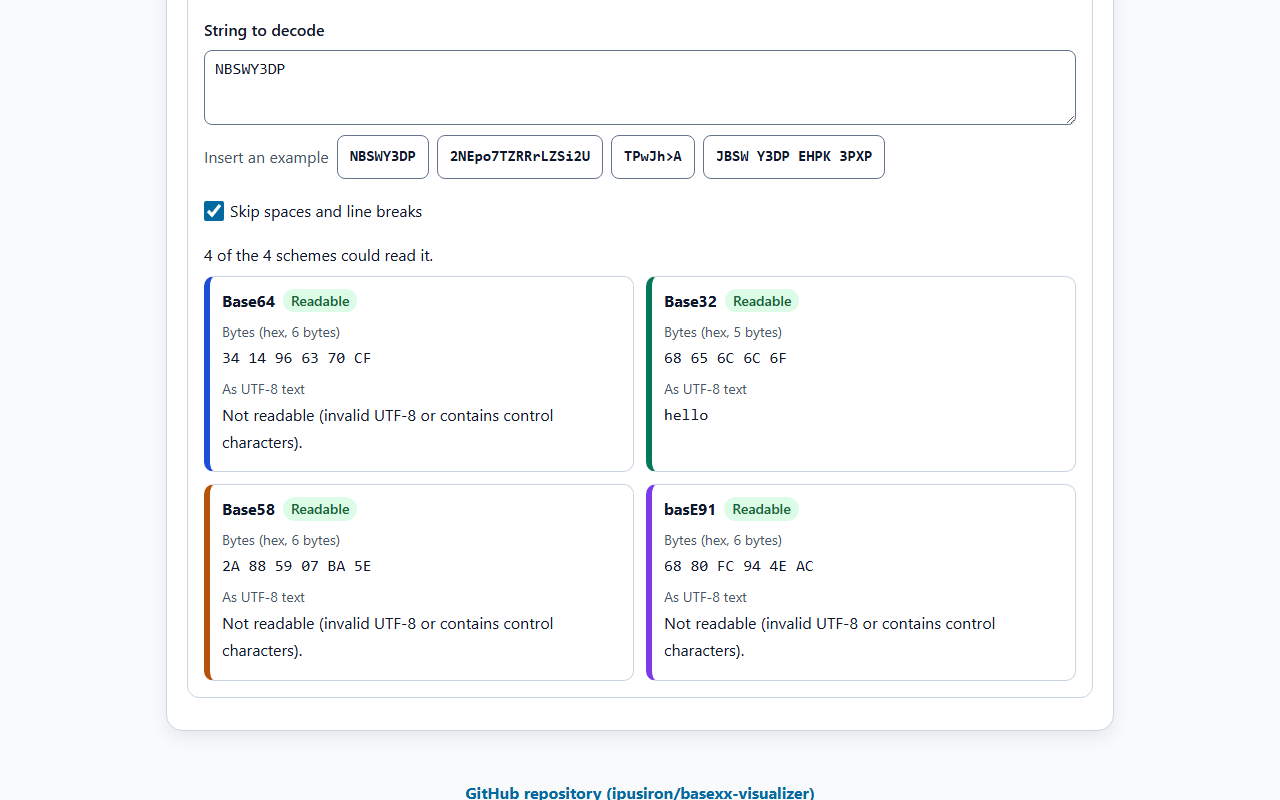
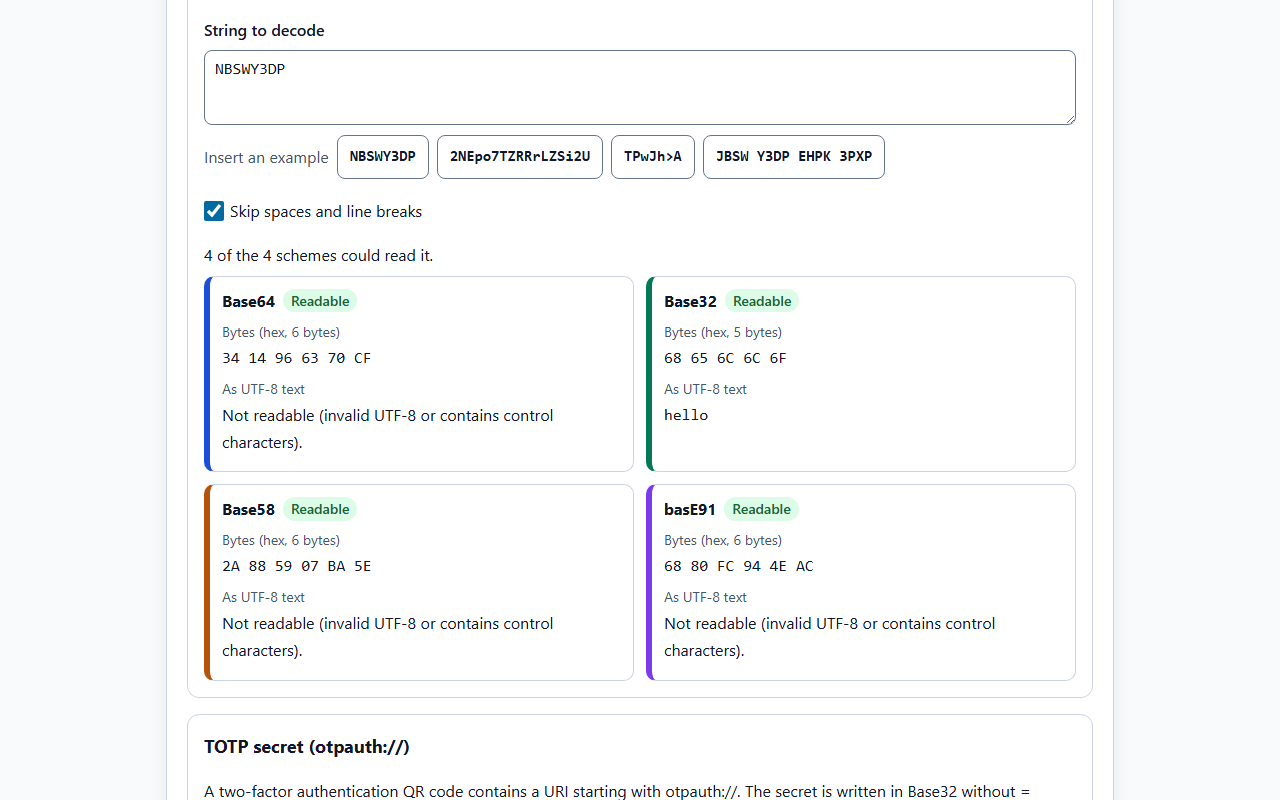
第2弾 段階3: README を第2弾に合わせ、スクリーンショットを足す
- README（日英）に、しくみ・変種と検査・TOTP の鍵の機能、変種と誤りの検出の表、genesis のアドレス、Key Uri Format の例の鍵の長さを足す
- 注意と限界を現在の機能に合わせる。ユースケースに、番号の設計・二要素認証の点検・n進数の授業を足す
- スクリーンショットを日英8枚ずつに（しくみ・誤りに気づけるか）
- 表はテストが計算部で計算し直す（テスト80件）。CLAUDE.md を更新

Changed region(s): [[0.1562, 0.9062, 0.7812, 1.0]]

diff --git a/test/readme.test.js b/test/readme.test.js
@@ -3,9 +3,10 @@ import assert from 'node:assert/strict';
 import fs from 'node:fs';
 import path from 'node:path';
 import { fileURLToPath } from 'node:url';
-import { read, core } from './load.js';
+import { read, core, load } from './load.js';
 
 const C = core();
+const X = load('js/basexx-extras.js').BaseXXExtras;
 const ROOT = fileURLToPath(new URL('..', import.meta.url));
 
 const DOCS = {
@@ -13,7 +14,10 @@ const DOCS = {
     file: 'README.md', switcher: '[English](README.en.md) · 日本語', day: '**Day052 - 生成AIで作るセキュリティツール100**',
     shots: /^assets\/screenshot\d*\.png$/,
     sec: { tech: '🔬 技術的な説明', limits: '⚠ 注意と限界', refs: '🔗 参考', tree: '📁 ディレクトリー構造', about: '🛠 このツールについて', uses: '🎯 ユースケース' },
-    head: { encode: '| 入力 | Base64 |', length: '| 元のバイト数 |', misread: '| 取り違え |' },
+    head: { encode: '| 入力 | Base64 |', length: '| 元のバイト数 |', misread: '| 取り違え |', variants: '| 方式 | helloを書いた結果 |', detect: '| 形式 | 文字列 |' },
+    variantNames: { 'Crockford Base32＋検査文字': 'crockfordCheck' },
+    count: (c) => `${c.total}通り中${c.detected}通り`,
+    totp: ['10バイト（80ビット）', '20バイト（160ビット）'],
     hexTag: '（16進）',
     names: { 'JWTのヘッダー': '{"alg":"HS256","typ":"JWT"}', 'Sample Text': 'Sample Text', 'Hello>': 'Hello>', 'Hello?World': 'Hello?World' },
     space: '空白',
@@ -32,7 +36,11 @@ const DOCS = {
     shots: /^assets\/en\/screenshot\d*\.png$/,
     sec: { tech: '🔬 Technical notes', limits: '⚠ Notes and limitations', refs: '🔗 References', tree: '📁 Directory structure', about: '🛠 About this tool',
       uses: '🎯 Use cases' },
-    head: { encode: '| Input | Base64 |', length: '| Original bytes |', misread: '| Mix-up |' },
+    head: { encode: '| Input | Base64 |', length: '| Original bytes |', misread: '| Mix-up |',
+      variants: '| Scheme | "hello" written |', detect: '| Format | String |' },
+    variantNames: { 'Crockford Base32 + check symbol': 'crockfordCheck' },
+    count: (c) => `${c.detected} of ${c.total}`,
+    totp: ['10 bytes (80 bits)', '20 bytes (160 bits)'],
     hexTag: ' (hex)',
     names: { 'A JWT header': '{"alg":"HS256","typ":"JWT"}', 'Sample Text': 'Sample Text', 'Hello>': 'Hello>', 'Hello?World': 'Hello?World' },
     space: 'space',
@@ -183,6 +191,36 @@ for (const [lang, d] of Object.entries(DOCS)) {
     }
   });
 
+  test(`${d.file}: 変種の表・誤りの検出の表・genesis のアドレス・TOTP の鍵の長さは、計算部で計算し直した値と同じ`, () => {
+    const tech = section(d.text, d.sec.tech);
+    const enc = {
+      Base64: (b) => C.encodeBase64(b), Base64url: (b) => X.encodeBase64url(b), Base32: (b) => C.encodeBase32(b), Base32hex: (b) => X.encodeBase32hex(b),
+      'Crockford Base32': (b) => X.encodeCrockford(b), crockfordCheck: (b) => X.encodeCrockford(b, true), Base58: (b) => C.encodeBase58(b),
+      Base58Check: (b) => X.encodeBase58Check(b)
+    };
+    const hello = C.utf8('hello');
+    const rows = table(tech, d.head.variants);
+    assert.equal(rows.length, 8);
+    for (const [name, text] of rows) assert.equal(code(text), enc[d.variantNames[name] || name](hello), name);
+    const det = table(tech, d.head.detect);
+    const fmt = { Base32: 'base32', 'Crockford Base32': 'crockford', Base58: 'base58', Base58Check: 'base58check' };
+    assert.equal(det.length, X.FORMAT_NAMES.length);
+    for (const [name, text, subs, swaps] of det) {
+      const f = d.variantNames[name] || fmt[name];
+      assert.ok(f, name);
+      assert.equal(code(text), X.encodeFormat(f, hello), name);
+      const r = X.detection(f, code(text));
+      assert.deepEqual([subs, swaps], [d.count(r.subs), d.count(r.swaps)], name);
+    }
+    assert.ok(tech.includes(`\`${C.encodeBase32(C.utf8('f'))}\``) && tech.includes(`\`${X.encodeCrockford(C.utf8('f'))}\``));
+    const payload = Uint8Array.from(Buffer.from('0062E907B15CBF27D5425399EBF6F0FB50EBB88F18', 'hex'));
+    assert.ok(tech.includes('`62E907B15CBF27D5425399EBF6F0FB50EBB88F18`'));
+    assert.ok(tech.includes(`\`${X.encodeBase58Check(payload)}\``));
+    const [a, b] = ['JBSWY3DPEHPK3PXP', 'HXDMVJECJJWSRB3HWIZR4IFUGFTMXBOZ'].map((s) => X.parseOtpauth(s));
+    assert.deepEqual([a.key.length, a.bits, b.key.length, b.bits], [10, 80, 20, 160]);
+    for (const claim of d.totp) assert.ok(tech.includes(claim), claim);
+  });
+
   test(`${d.file}: 注意と限界に書いた上限は、計算部の上限と同じ`, () => {
     assert.ok(section(d.text, d.sec.limits).includes(d.limits(C.MAX_BYTES, C.MAX_CHARS)));
   });
@@ -208,16 +246,16 @@ for (const [lang, d] of Object.entries(DOCS)) {
 test('参考文献の URL は日英で同じ', () => {
   const urls = (d) => [...section(d.text, d.sec.refs).matchAll(/\]\((https:\/\/[^)\s]+)\)/g)].map((m) => m[1]);
   assert.deepEqual(urls(DOCS.en), urls(DOCS.ja));
-  assert.equal(urls(DOCS.ja).length, 10);
+  assert.equal(urls(DOCS.ja).length, 14);
 });
 
-test('画像: 参照はすべて実在する。スクリーンショットは日本語版が assets/、英語版が assets/en/ の6枚。どこからも参照しない画像は置かない', () => {
+test('画像: 参照はすべて実在する。スクリーンショットは日本語版が assets/、英語版が assets/en/ の8枚。どこからも参照しない画像は置かない', () => {
   const refs = {};
   for (const [lang, d] of Object.entries(DOCS)) {
     refs[lang] = [...d.text.matchAll(/!\[[^\]]*\]\((assets\/[^)]+)\)/g)].map((m) => m[1]);
     for (const r of refs[lang]) assert.ok(fs.existsSync(path.join(ROOT, r)), r);
     const shots = refs[lang].filter((r) => /screenshot/.test(r));
-    assert.equal(shots.length, 6, lang);
+    assert.equal(shots.length, 8, lang);
     for (const r of shots) {
       assert.match(r, d.shots, r);
       assert.ok(fs.statSync(path.join(ROOT, r)).size <= 300 * 1024, r);

diff --git a/README.en.md b/README.en.md
@@ -10,7 +10,7 @@ English · [日本語](README.md)
 
 **Day052 - 100 Security Tools with Generative AI**
 
-BaseXX Visualizer is a learning tool that compares Base32, Base58 and basE91 with Base64: the characters each one uses (the alphabet), the length, and how well each holds up when people read and type the strings. It encodes with all four schemes at once, lists what each of the four schemes reads from a string, and shows what happens when look-alike characters are mixed up.
+BaseXX Visualizer is a learning tool that compares Base32, Base58 and basE91 with Base64: the characters each one uses (the alphabet), the length, and how well each holds up when people read and type the strings. It encodes with all four schemes at once, lists what each of the four schemes reads from a string, and shows what happens when look-alike characters are mixed up. It also explains the bit grouping step by step, tests whether variants and check values notice mistakes, and inspects TOTP secrets.
 
 ---
 
@@ -48,6 +48,14 @@ You can try it directly in your browser.
 >
 >*How basE91 works and examples that match the original implementation (dark mode)*
 
+>![How "hi!" becomes Base64](assets/en/screenshot7.png)
+>
+>*The 24 bits of "hi!" cut into 6-bit groups and turned into Base64 characters*
+
+>![Can mistakes be noticed](assets/en/screenshot8.png)
+>
+>*Trying every single replacement and neighbor swap: only formats with a check value notice the mistakes*
+
 ---
 
 ## 🔑 Practical background
@@ -75,6 +83,11 @@ In these cases people may confuse look-alike characters such as O (letter) and 0
 - Encode: text (UTF-8) or hex input is encoded with Base64, Base32, Base58 and basE91 at once. Shows the number of characters and the ratio to the original, and each result can be copied. Padding Base64 and Base32 with = is optional
 - Decode: a string is read with the four schemes and every scheme that can read it is listed (the bytes in hex, and the UTF-8 text when it is readable as such). For schemes that cannot read it, the kind of error and its position (which character at which position) are shown. The input is never overwritten
 - Spaces and line breaks: whether decoding skips them is selectable (the number skipped is shown)
+- TOTP secret: reads an otpauth:// URI or a Base32 secret and shows the issuer, account name, algorithm, digits and period, and the key bytes and length. Notes are shown against RFC 4226 (at least 128 bits required, 160 bits recommended) and RFC 6238 (key as long as the HMAC output recommended). One-time passwords are not computed
+
+### How it works
+
+- Shows text of up to 12 bytes step by step: 6-bit and 5-bit groups for Base64 and Base32, a table of divisions by 58 for Base58, and 13-bit and 14-bit groups split into two characters for basE91
 
 ### Length
 
@@ -86,6 +99,13 @@ In these cases people may confuse look-alike characters such as O (letter) and 0
 
 - Choose one of five mix-ups (O→0, I→l, I→1, +→space, /→\) and see what happens when it occurs in a Base64 string. The result is one of three: "same data", "different data without an error" or "error"
 - Lists whether the same mix-up can happen if the same data had been written in Base32, Base58 or basE91, and what happens if it does
+
+### Variants and checks
+
+- Writing in the variants: the same text in Base64, Base64url, Base32, Base32hex, Crockford Base32 (with and without a check symbol), Base58 and Base58Check, with the differences
+- Can mistakes be noticed: for five formats (Base32, Crockford Base32, Crockford Base32 + check symbol, Base58, Base58Check), every single replacement and neighbor swap is tried and the failed decodings are counted
+- Try changing it yourself: choose a format, edit the string, and see whether the mistake is noticed (error) or not (different data)
+- How Crockford Base32 reads characters: case does not matter, O is read as 0, I and L as 1, and hyphens are ignored. The check symbol is verified too
 
 ### basE91
 
@@ -106,6 +126,9 @@ In these cases people may confuse look-alike characters such as O (letter) and 0
 2. Type a string into the lower field to see what each of the four schemes reads. The string alone does not tell which scheme produced it; judge from the content of the readable results.
 3. In the "Length" tab, change the length and content of the data to compare the number of characters per scheme.
 4. In the "Misreading" tab, choose a mix-up and see whether it causes an error or silently gives different data. Unchecking "Skip spaces and line breaks" changes the result of +→space.
+5. In the "How it works" tab, choose a scheme to see the arithmetic from the original bytes to the characters in a table.
+6. In the "Variants" tab, compare how many mistakes formats with and without a check value notice. You can also edit a string yourself in the field below.
+7. Enter an otpauth:// URI or a Base32 secret at the bottom of the "Convert" tab to check the key bytes and length.
 
 ---
 
@@ -167,6 +190,41 @@ For 256 bytes of 00, Base58 gives 256 characters (all "1") and basE91 gives 293 
 
 When a URL query string is parsed as application/x-www-form-urlencoded, + becomes a space (WHATWG URL Standard). RFC 4648 also defines a URL-safe Base64 (base64url) that uses - and _ instead of + and /.
 
+### Variants
+
+The results of writing "hello" (recomputed by the tests).
+
+| Scheme | "hello" written | Difference |
+|---|---|---|
+| Base64 | `aGVsbG8=` | Standard |
+| Base64url | `aGVsbG8` | - and _ instead of + and /, without = (RFC 4648 §5) |
+| Base32 | `NBSWY3DP` | Standard |
+| Base32hex | `D1IMOR3F` | 0–9 and A–V. The order of the strings matches the order of the original bytes (RFC 4648 §7) |
+| Crockford Base32 | `D1JPRV3F` | Without I, L, O and U |
+| Crockford Base32 + check symbol | `D1JPRV3FJ` | Adds a check symbol: the number modulo 37 |
+| Base58 | `Cn8eVZg` | The Bitcoin alphabet |
+| Base58Check | `2L5B5yqsVG8Vt` | Appends the first 4 bytes of a double SHA-256 before encoding |
+
+Crockford Base32 is a notation for numbers, so when the bits are not a multiple of 5, zeros are added at the top (RFC 4648 Base32 adds them at the bottom). So the single byte "f" is `MY======` in Base32 and `36` in Crockford Base32. When reading, case does not matter, O is read as 0, I and L as 1, and hyphens are ignored.
+
+### Error detection experiment
+
+"hello" is written in five formats, and every string with one character replaced by another character allowed at that position, or with two different neighbors swapped, is decoded. A failed decoding counts as a noticed mistake.
+
+| Format | String | One character replaced | Neighbors swapped |
+|---|---|---|---|
+| Base32 | `NBSWY3DP` | 0 of 248 | 0 of 7 |
+| Crockford Base32 | `D1JPRV3F` | 0 of 248 | 0 of 7 |
+| Crockford Base32 + check symbol | `D1JPRV3FJ` | 284 of 284 | 8 of 8 |
+| Base58 | `Cn8eVZg` | 0 of 399 | 0 of 6 |
+| Base58Check | `2L5B5yqsVG8Vt` | 741 of 741 | 12 of 12 |
+
+Without a check, replacing a character with another one from the alphabet still decodes, so there is no error. The Crockford check symbol is the number modulo 37, and since 37 is a prime greater than 32, a single replacement or a swap of neighbors always changes the remainder. Base58Check, like Bitcoin's `EncodeBase58Check`, appends the first 4 bytes of a double SHA-256. Writing the version 00 and the public key hash `62E907B15CBF27D5425399EBF6F0FB50EBB88F18` in Base58Check gives the address of the Bitcoin genesis block, `1A1zP1eP5QGefi2DMPTfTL5SLmv7DivfNa`.
+
+### TOTP secrets
+
+The key `JBSWY3DPEHPK3PXP` in the Key Uri Format example is "Hello!" followed by DE AD BE EF: 10 bytes (80 bits). RFC 4226 requires keys of at least 128 bits and recommends 160 bits, so this tool warns that it is short. The other example in the same document, `HXDMVJECJJWSRB3HWIZR4IFUGFTMXBOZ`, is 20 bytes (160 bits), the length of the SHA1 output.
+
 ---
 
 ## 🎯 Use cases
@@ -181,6 +239,9 @@ When a URL query string is parsed as application/x-www-form-urlencoded, + become
 - Hobbies and creative work: when making puzzles or games, use the look of Base64 (often ends with =, mixes upper and lower case) and Base32 (only capital letters and 2–7) as clues
 - Research: compare the efficiency of a lesser-known scheme such as basE91 on data full of 00 and on random data
 - Writing documents: show in an article or internal document that Base64 makes the text about 1.33 times longer, with a screenshot of the bar chart
+- Designing numbers and codes: decide whether strings that people type, such as member numbers or coupon codes, should carry a check symbol, by looking at the error detection experiment (0% without a check, 100% with one)
+- Reviewing two-factor authentication: check whether the TOTP secrets your service issues meet the 128 bits of RFC 4226 by entering the otpauth:// URI (for handling real secrets, see "Notes and limitations")
+- Math classes: use the table of divisions by 58 in the "How it works" tab to practice converting numbers to base n. Reading the remainders from the bottom up is visible as is
 
 ---
 
@@ -191,7 +252,8 @@ When a URL query string is parsed as application/x-www-form-urlencoded, + become
 - The page is built with the DOM (`textContent`), never `innerHTML`
 - `<meta name="referrer" content="no-referrer">`; external links use `rel="noopener noreferrer"`
 - Only the language and theme choices are stored in the browser (the page works even where storage is unavailable)
-- No external libraries or CDNs
+- No external libraries or CDNs (SHA-256 is implemented here too, and the tests compare it with Node.js `crypto`)
+- TOTP secrets are also read only in the browser, and never stored or sent
 
 ---
 
@@ -199,7 +261,11 @@ When a URL query string is parsed as application/x-www-form-urlencoded, + become
 
 - Encoding does not keep secrets. Anyone who knows the scheme can decode any of them
 - Input is limited to 4096 bytes, and decoding to 8192 characters
-- base64url, Base32hex and Crockford Base32 are not read. Base58Check (the check value of Bitcoin addresses) is not computed, so the validity of an address cannot be checked
+- "How it works" handles text of up to 12 bytes, and "Variants" up to 32 bytes
+- The decode candidates in the "Convert" tab are Base64, Base32, Base58 and basE91. The variants (Base64url, Base32hex, Crockford Base32, Base58Check) are handled in the "Variants" tab
+- Base58Check checks only the check value. It does not judge the kind of Bitcoin address (the leading version byte)
+- The error detection experiment tries each single replacement and neighbor swap once; mistakes in two or more characters are not tried
+- One-time passwords are not computed for TOTP. The tool only reads the secret and checks its length
 - The results of "Misreading" follow this tool's decoding rules (the setting for skipping spaces and line breaks). Other implementations may give different results, for example by skipping characters outside the alphabet
 - When entering a real secret or token, open the page on your own device and clear the fields afterwards
 
@@ -214,7 +280,8 @@ npm test
 - Runs with `node --test` on Node.js 22 or later, with no dependencies (no `npm install` needed)
 - Runs on GitHub Actions for every push and pull request
 - `test/core.test.js`: known answers from RFC 4648, draft-msporny-base58-03 and the original basE91, round trips (0–300 bytes), kinds and positions of errors, handling of spaces, length formulas
-- `test/readme.test.js`: recomputes the README tables (encoding examples, lengths, misreading) with the core module, and checks the headings, images and directory structure of both READMEs
+- `test/extras.test.js`: Base64url and Base32hex (RFC 4648 §10 vectors), Crockford Base32 known answers and reading rules, SHA-256 (matches Node.js `crypto` for 0–300 bytes), Base58Check (the genesis address), error detection, the step tables, the Key Uri Format examples
+- `test/readme.test.js`: recomputes the README tables (encoding examples, lengths, misreading, variants, error detection) with the core module, and checks the headings, images and directory structure of both READMEs
 - `test/html.test.js`, `test/contrast.test.js`, `test/messages.test.js`, `test/i18n.test.js`, `test/format.test.js`: CSP, tab ARIA, dictionary and page text, color contrast (4.5:1 and 3:1), formatting
 
 ---
@@ -229,6 +296,10 @@ npm test
 - [RFC 5155 DNS Security (DNSSEC) Hashed Authenticated Denial of Existence](https://www.rfc-editor.org/rfc/rfc5155) (Base32hex in NSEC3)
 - [WHATWG URL Standard application/x-www-form-urlencoded](https://url.spec.whatwg.org/#application/x-www-form-urlencoded)
 - [RFC 2045 MIME Part One](https://www.rfc-editor.org/rfc/rfc2045), [RFC 2397 The "data" URL scheme](https://www.rfc-editor.org/rfc/rfc2397), [RFC 7468 Textual Encodings of PKIX, PKCS, and CMS Structures](https://www.rfc-editor.org/rfc/rfc7468)
+- [Douglas Crockford, Base 32](https://www.crockford.com/base32.html)
+- [Bitcoin Core src/base58.cpp](https://github.com/bitcoin/bitcoin/blob/master/src/base58.cpp) (`EncodeBase58Check`)
+- [RFC 4226 HOTP: An HMAC-Based One-Time Password Algorithm](https://www.rfc-editor.org/rfc/rfc4226) (R6, key length)
+- [RFC 6238 TOTP: Time-Based One-Time Password Algorithm](https://www.rfc-editor.org/rfc/rfc6238) (§5.1, key length)
 
 ---
 
@@ -263,7 +334,9 @@ basexx-visualizer/
 │   ├── screenshot4.png       # Length bar chart (Japanese)
 │   ├── screenshot5.png       # Misreading (Japanese)
 │   ├── screenshot6.png       # basE91 (Japanese, dark)
-│   └── en/                   # Screenshots of the English page (the same six)
+│   ├── screenshot7.png       # How it works (Japanese)
+│   ├── screenshot8.png       # Can mistakes be noticed (Japanese)
+│   └── en/                   # Screenshots of the English page (the same eight)
 ├── .github/                  # GitHub settings
 │   └── workflows/            # GitHub Actions workflows
 │       └── test.yml          # Runs npm test on push and pull request

diff --git a/CLAUDE.md b/CLAUDE.md
@@ -19,13 +19,20 @@ python -m http.server 8000  # serve locally (index.html also works from file://)
 
 ## Code Architecture
 
-- `index.html` - 5 tab panels (overview / convert / length / misread / base91). No `style` attributes, no inline scripts or handlers. Static text has `data-i18n` keys whose Japanese text must equal the dictionary (tested). Length bars are SVG `rect` elements whose `width` attribute is set from script (no style writes)
+- `index.html` - 7 tab panels (overview / convert / bits / length / misread / variants / base91). No `style` attributes, no inline scripts or handlers. Static text has `data-i18n` keys whose Japanese text must equal the dictionary (tested). Length bars are SVG `rect` elements whose `width` attribute is set from script (no style writes)
 - `script.js` - DOM layer only. Each part keeps its state and redraws with a `render` function; `renders` are all re-run on language switch. Decoding never overwrites the input
 - `js/basexx-core.js` - pure logic (`globalThis.BaseXXCore`, no DOM):
   - `ALPHABETS` (Base64/Base32 per RFC 4648, Base58 Bitcoin, basE91 = the original `enctab` of base91-0.6.0, 91 chars without `-` `\` `'`), `CONFUSABLE_GROUPS` (RFC 4648 §3.4: 0/O, 1/l/I) and `confusablesIn(kind)`
   - `encodeBits` (generic bit grouping) → `encodeBase64`, `encodeBase32`; `encodeBase58` (leading 00 → `1`, empty → empty); `base91Steps` (text plus counts of 13-bit and 14-bit groups) → `encodeBase91`
   - decoders return `{ ok: true, bytes, skipped, loose }` or `{ ok: false, error, pos, ch }` with `error` in `char` / `length` / `padding` / `empty` / `long`. Spaces and line breaks are skipped only with `skipSpace` (default true); every other non-alphabet character is an error with its 1-based code point position. Base32 accepts lowercase. `loose` marks non-zero leftover bits (e.g. `Zh==`)
   - `decodeAll` (all four schemes; a string alone does not identify the scheme), `parseHex` (whitespace and `:` allowed), `toHex`, `utf8`, `readUtf8` (null for invalid UTF-8 or control characters other than tab/LF), `bitsLength`, `RATIOS`, `sampleBytes` (xorshift32 with a fixed seed, so the page, README and tests agree), `lengths`, `MAX_BYTES` 4096, `MAX_CHARS` 8192
+- `js/basexx-extras.js` - second-release logic (`globalThis.BaseXXExtras`, no DOM, loaded after the core):
+  - variants: `encodeBase64url` / `decodeBase64url` (RFC 4648 §5, no padding by default), `encodeBase32hex` / `decodeBase32hex` (§7)
+  - Crockford Base32 as a number notation: `encodeCrockford(bytes, check)` zero-extends at the top (RFC Base32 pads at the bottom), check symbol = number mod 37 (`CROCKFORD_CHECK`, 37 symbols). `decodeCrockford` reads O as 0, I/L as 1, ignores hyphens, returns `replaced`, and errors with `range` or `check`
+  - `sha256` (pure JS, tested against Node `crypto`), `encodeBase58Check` / `decodeBase58Check` (first 4 bytes of a double SHA-256, as Bitcoin `EncodeBase58Check`)
+  - `detection(format, text)` tries every single replacement and adjacent swap; formats are `FORMAT_NAMES` (base32, crockford, crockfordCheck, base58, base58check)
+  - `explainBits`, `explainBase58`, `explainBase91` (step tables, input up to `EXPLAIN_MAX` 12 bytes); the variants tab accepts up to `DETECT_MAX` 32 bytes
+  - `parseOtpauth` / `inspectSecret`: Key Uri Format (defaults SHA1, 6 digits, 30 s), warnings `padding`, `short` (< 128 bits, RFC 4226 R6), `recommend` (< 160), `hmac` (RFC 6238 §5.1), `issuer`. One-time passwords are deliberately not computed
 - `js/messages.js` - Japanese and English dictionaries with the same keys (`BaseXXMessages.t(key, vars, lang)`)
 - `js/i18n.js` - language detection (`?lang=` → saved → browser) and `data-i18n` replacement
 - `js/theme-init.js` / `js/theme.js` - theme follows the OS until toggled; localStorage access is always in `try`
@@ -47,11 +54,12 @@ Encoding and decoding follow `base91.c` of the original (Joachim Henke, BSD). Kn
 
 ## Tests
 
+- `test/extras.test.js` - variants (RFC 4648 §10 Base32hex vectors), Crockford known answers and reading rules, SHA-256 against Node `crypto`, Base58Check genesis address, detection counts, step tables, Key Uri Format examples
 - `test/core.test.js` - RFC 4648 vectors, draft-msporny-base58-03 vectors, basE91 known answers, round trips (0–300 bytes, random/00/FF, padding on/off, UTF-8 incl. surrogate pairs), error kinds and positions, whitespace handling, loose bits, length formulas, basE91 group counts
 - `test/html.test.js` - CSP, tab ARIA, labels, `aria-pressed`, dictionary agreement, ids used by script.js, no innerHTML/style writes, guarded localStorage, ratio table, sample buttons
 - `test/contrast.test.js` - text 4.5:1, field borders and scheme colors 3:1 in light and dark, 44px controls, 16px inputs, Latin-first font
 - `test/messages.test.js`, `test/i18n.test.js` - dictionaries, notation, numbers in the text, language selection
-- `test/readme.test.js` - both READMEs (same headings), YAML structure, encoding/length/misreading tables recomputed from the core, limits, directory tree, images (6 screenshots each)
+- `test/readme.test.js` - both READMEs (same headings), YAML structure, encoding/length/misreading/variant/detection tables recomputed from the core, the genesis address and TOTP key lengths, limits, directory tree, images (8 screenshots each)
 - `test/format.test.js` - line length, LF, no control characters
 
 README numbers are recomputed by tests — update them from the core, not by hand. README states only what is true for the current version. Screenshots are taken with `business/research/try100_audit/impl/shots/day052_shots.py` in the ipusiron-work repository.
